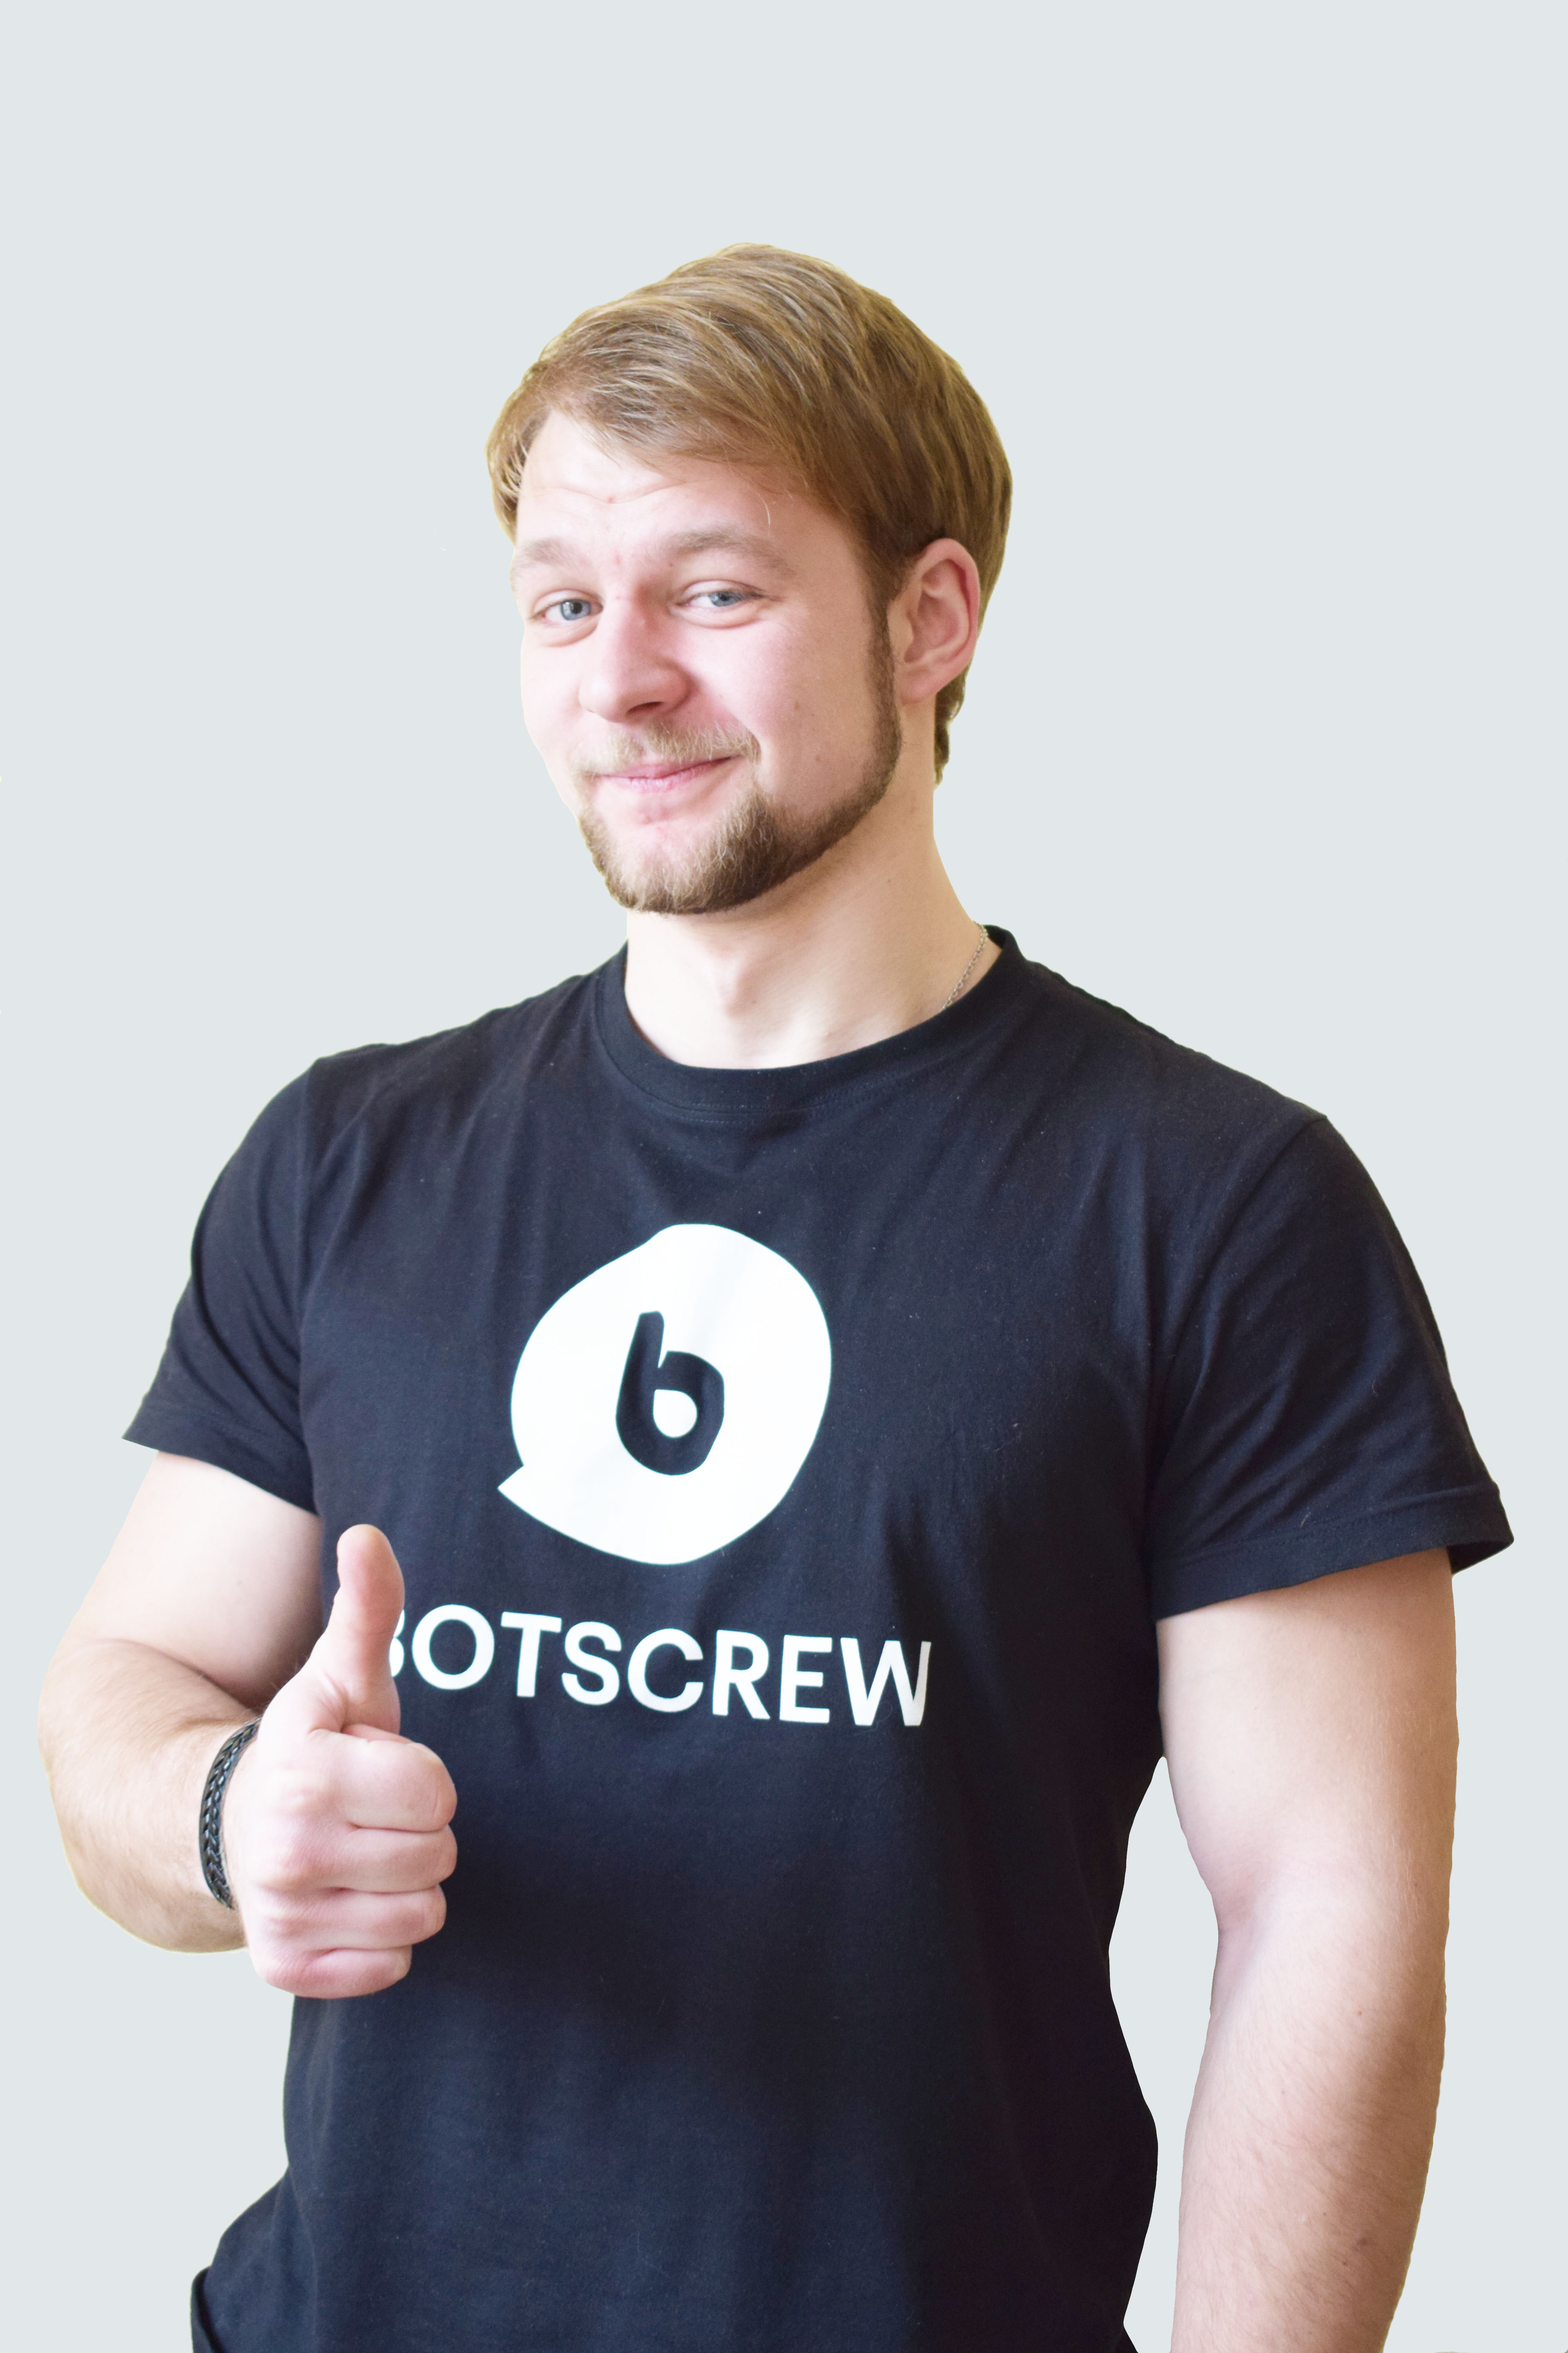
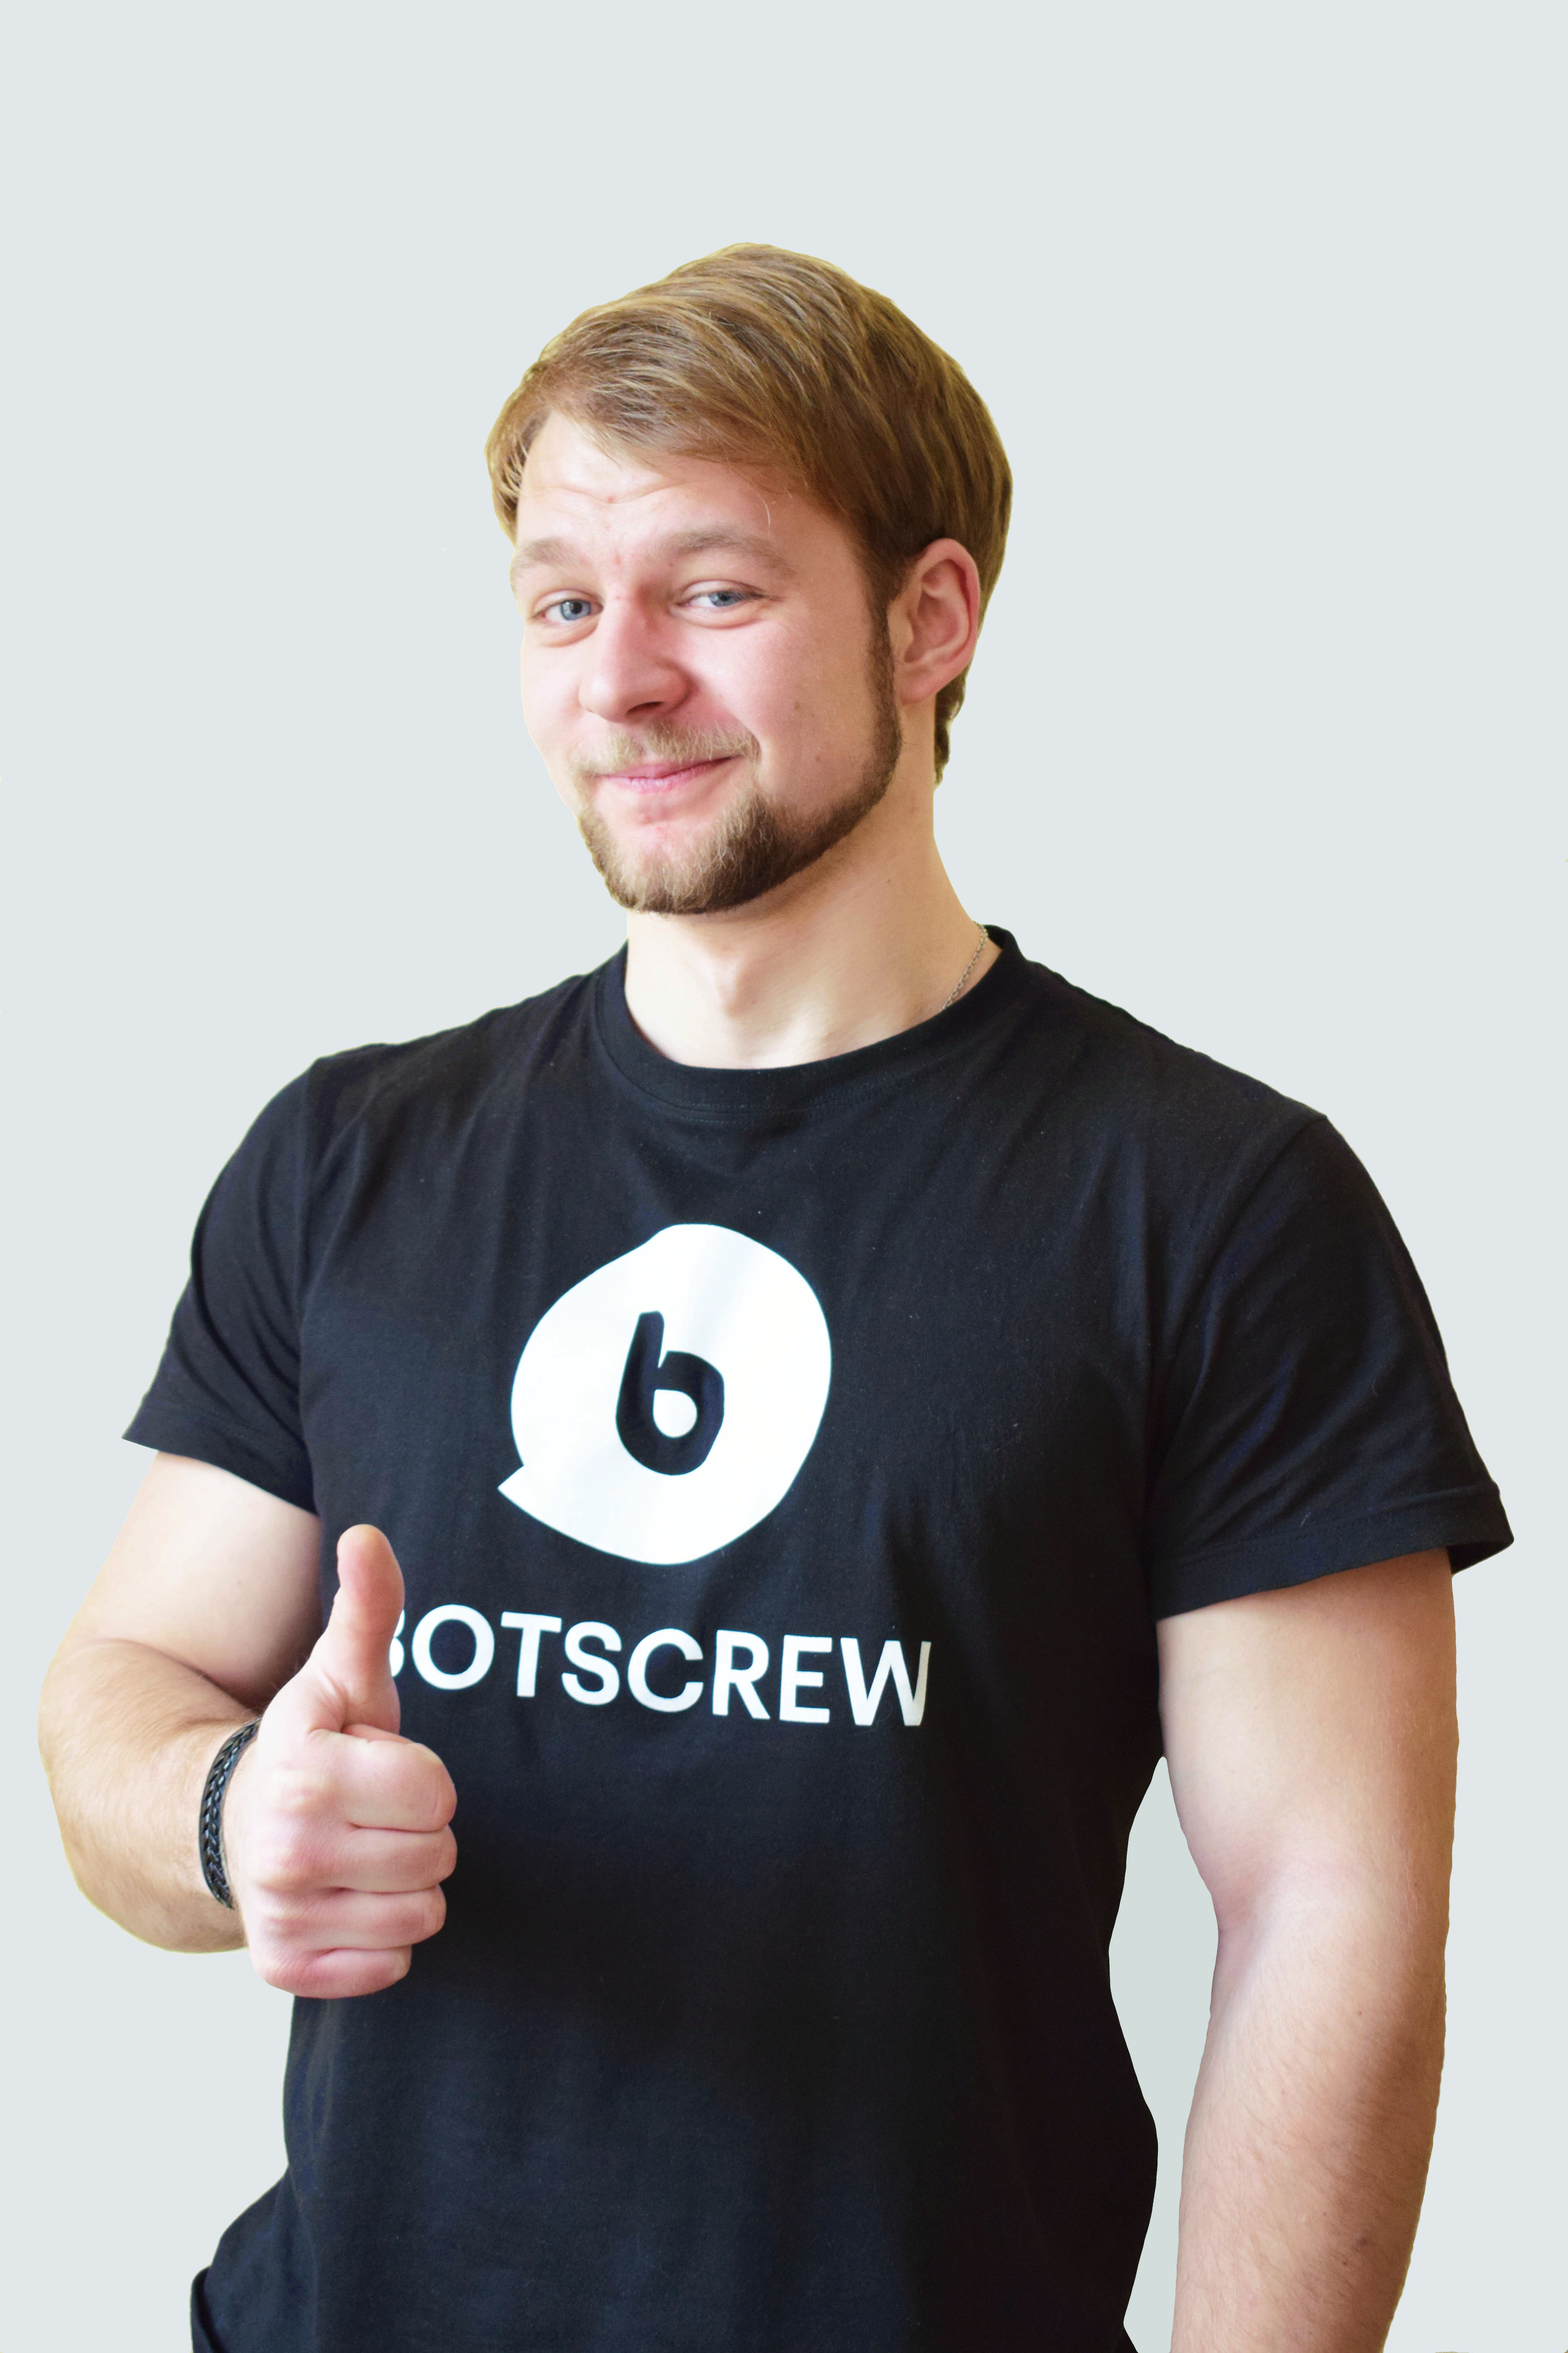
Added all photos

diff --git a/team.html b/team.html
@@ -205,71 +205,72 @@
                 </p>
                 <p class="subtitle">Co-Founder</p>
               </li>
-              <li>
-                <div class="member-photo lazy" data-src="./img/team/teamoleh_p.jpg"></div>
-                <p class="title">
-                  <b>Oleh</b>
-                </p>
-                <p class="subtitle">Co-Founder</p>
-              </li>
-              <li>
-                <div class="member-photo lazy" data-src="./img/team/teamvolodymur_k.jpg"></div>
+                            <li>
+                <div class="member-photo lazy" data-src="./img/team/nazar1.jpg"></div>
                 <p class="title">
                   <b>Nazar</b>
                 </p>
                 <p class="subtitle">Co-Founder</p>
               </li>
               <li>
-                <div class="member-photo lazy" data-src="./img/team/teamvolodymur_k.jpg"></div>
+                <div class="member-photo lazy" data-src="./img/team/teamoleh_p.jpg" style="background-size: 90%; background-color: #E2E7EA;"></div>
                 <p class="title">
-                  <b>Ira</b>
+                  <b>Oleh</b>
+                </p>
+                <p class="subtitle">Co-Founder</p>
+              </li>
+
+              <li>
+                <div class="member-photo lazy" data-src="./img/team/teamvolodymur_k.jpg" style="background-size: 90%; background-color: #E2E7EA;"></div>
+                <p class="title">
+                  <b>Vova</b>
                 </p>
                 <p class="subtitle">HR Manager</p>
               </li>
               <li>
-                <div class="member-photo lazy" data-src="./img/team/teamserhiy_l.jpg"></div>
+                <div class="member-photo lazy" data-src="./img/team/teamserhiy_l.jpg" style="background-size: 90%; background-color: #E2E7EA;"></div>
+                <p class="title">
+                  <b>Serhiy</b>
+                </p>
+                <p class="subtitle">Software engineer</p>
+              </li>
+              <li>
+                <div class="member-photo lazy" data-src="./img/team/teammisha_s.jpg" style="background-size: 90%; background-color: #E2E7EA;"></div>
+                <p class="title">
+                  <b>Misha</b>
+                </p>
+                <p class="subtitle">Software engineer</p>
+              </li>
+              <li>
+                <div class="member-photo lazy" data-src="./img/team/teamandrih_h.jpg" style="background-size: 88%; background-color: #E2E7EA;"></div>
+                <p class="title">
+                  <b>Andrew</b>
+                </p>
+                <p class="subtitle">Designer</p>
+              </li>
+              <li>
+                <div class="member-photo lazy" data-src="./img/team/teamoleh_m.jpg" style="background-size: 90%; background-color: #E2E7EA;"></div>
+                <p class="title">
+                  <b>Oleh</b>
+                </p>
+                <p class="subtitle">Software engineer</p>
+              </li>
+              <li>
+                <div class="member-photo lazy" data-src="./img/team/teamrostyslav_p.jpg" style="background-size: 90%; background-color: #E2E7EA;"></div>
+                <p class="title">
+                  <b>Rostyslav</b>
+                </p>
+                <p class="subtitle">Software engineer</p>
+              </li>
+              <li>
+                <div class="member-photo lazy" data-src="./img/member_he_mock.png" style="background-size: 90%; background-color: #E2E7EA;"></div>
                 <p class="title">
                   <b>Oleh Pylypchak</b>
                 </p>
                 <p class="subtitle">Co-Founder</p>
               </li>
               <li>
-                <div class="member-photo lazy" data-src="./img/team/teammisha_s.jpg"></div>
-                <p class="title">
-                  <b>Oleh Pylypchak</b>
-                </p>
-                <p class="subtitle">Co-Founder</p>
-              </li>
-              <li>
-                <div class="member-photo lazy" data-src="./img/team/teamandrih_h.jpg"></div>
-                <p class="title">
-                  <b>Oleh Pylypchak</b>
-                </p>
-                <p class="subtitle">Co-Founder</p>
-              </li>
-              <li>
-                <div class="member-photo lazy" data-src="./img/team/teamoleh_m.jpg"></div>
-                <p class="title">
-                  <b>Oleh Pylypchak</b>
-                </p>
-                <p class="subtitle">Co-Founder</p>
-              </li>
-              <li>
-                <div class="member-photo lazy" data-src="./img/team/teamrostyslav_p.jpg"></div>
-                <p class="title">
-                  <b>Oleh Pylypchak</b>
-                </p>
-                <p class="subtitle">Co-Founder</p>
-              </li>
-              <li>
-                <div class="member-photo lazy" data-src="./img/member_he_mock.png"></div>
-                <p class="title">
-                  <b>Oleh Pylypchak</b>
-                </p>
-                <p class="subtitle">Co-Founder</p>
-              </li>
-              <li>
-                <div class="member-photo lazy" data-src="./img/member_he_mock.png"></div>
+                <div class="member-photo lazy" data-src="./img/member_he_mock.png" style="background-size: 90%; background-color: #E2E7EA;"></div>
                 <p class="title">
                   <b>Oleh Pylypchak</b>
                 </p>
